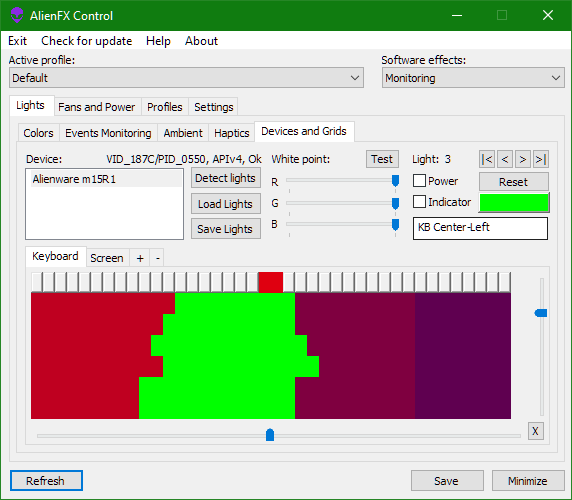
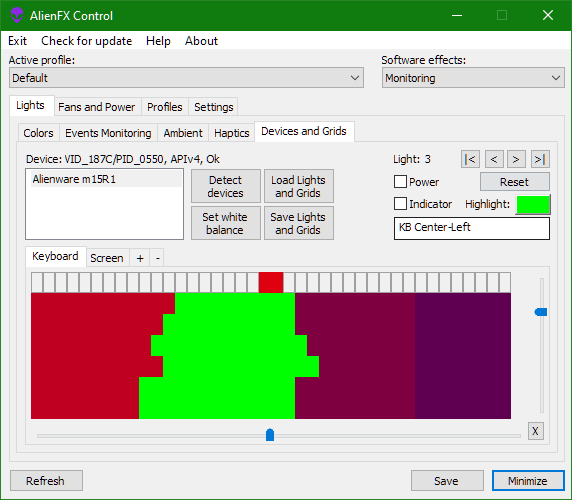
Pictures update, bugfix for non-changed light info

diff --git a/alienfx-gui/DevicesDialog.cpp b/alienfx-gui/DevicesDialog.cpp
@@ -358,6 +358,7 @@ BOOL CALLBACK TabDevicesDialog(HWND hDlg, UINT message, WPARAM wParam, LPARAM lP
 		// First, reset all light devices and re-scan!
 		fxhl->UnblockUpdates(false, true);
 		// Do we have some lights?
+		conf->afx_dev.AlienFXAssignDevices();
 		CreateGridBlock(gridTab, (DLGPROC)TabGrid, true);
 		TabCtrl_SetCurSel(gridTab, conf->gridTabSel);
 		if (conf->afx_dev.fxdevs.size() > 0) {
@@ -487,7 +488,7 @@ BOOL CALLBACK TabDevicesDialog(HWND hDlg, UINT message, WPARAM wParam, LPARAM lP
 		{
 			// Try to detect lights from DB
 			if (DialogBox(hInst, MAKEINTRESOURCE(IDD_DIALOG_AUTODETECT), hDlg, (DLGPROC)DetectionDialog) == IDOK) {
-				ApplyDeviceMaps(hDlg);
+				ApplyDeviceMaps();
 			}
 		} break;
 		case IDC_BUT_LOADMAP:
